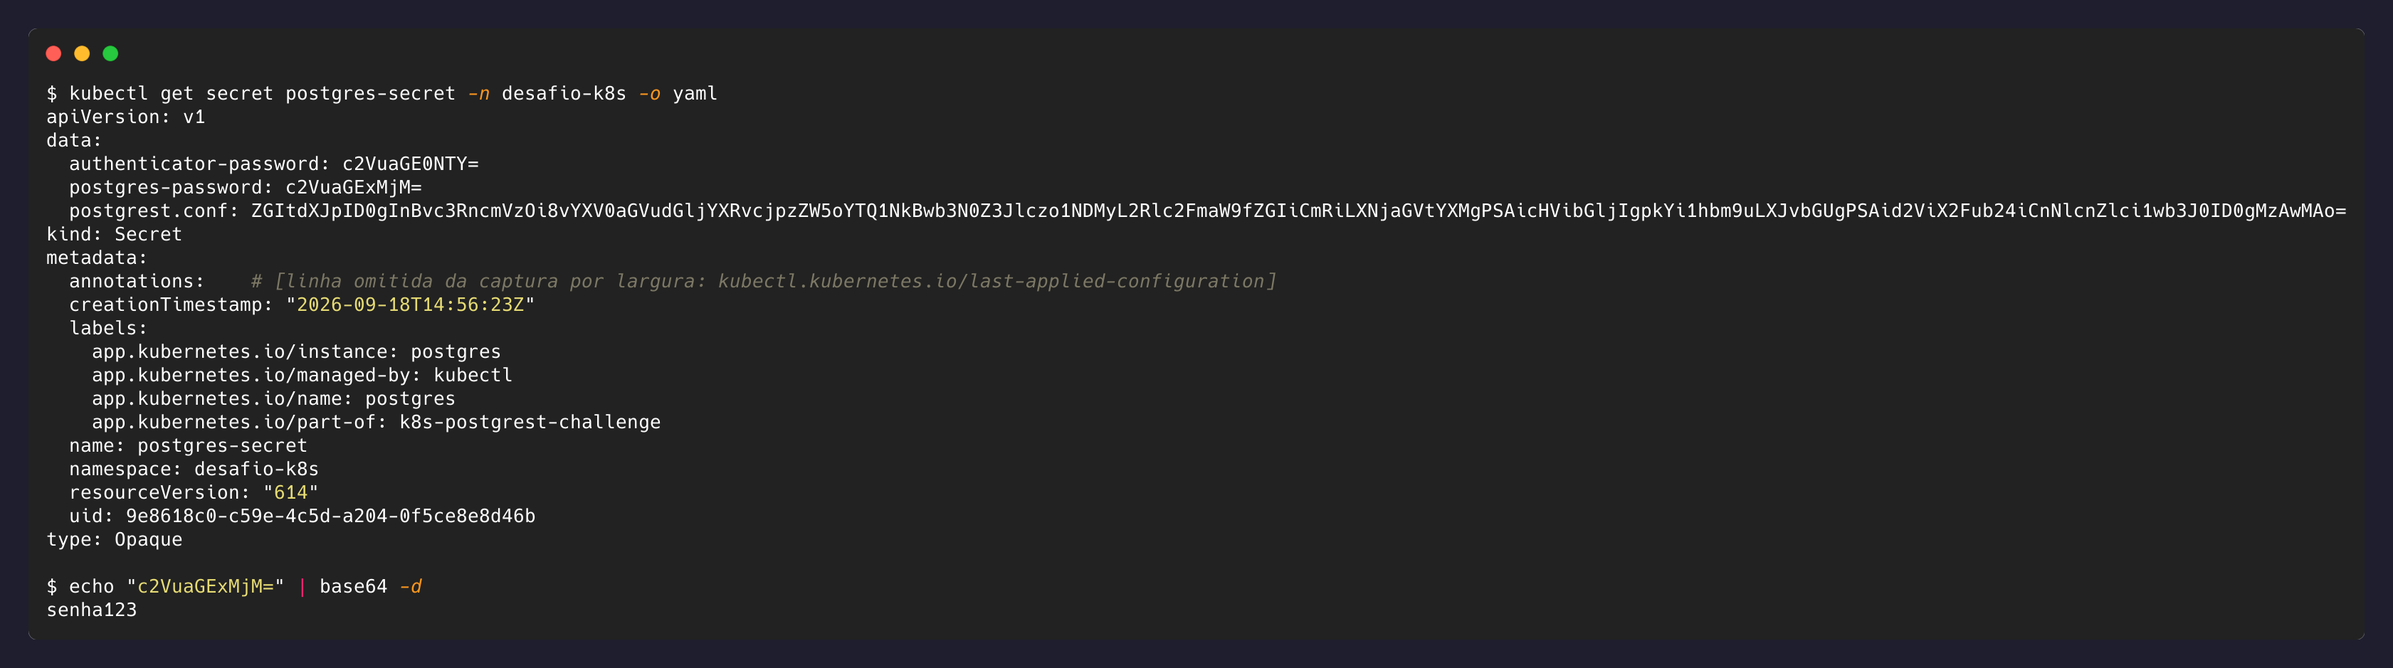
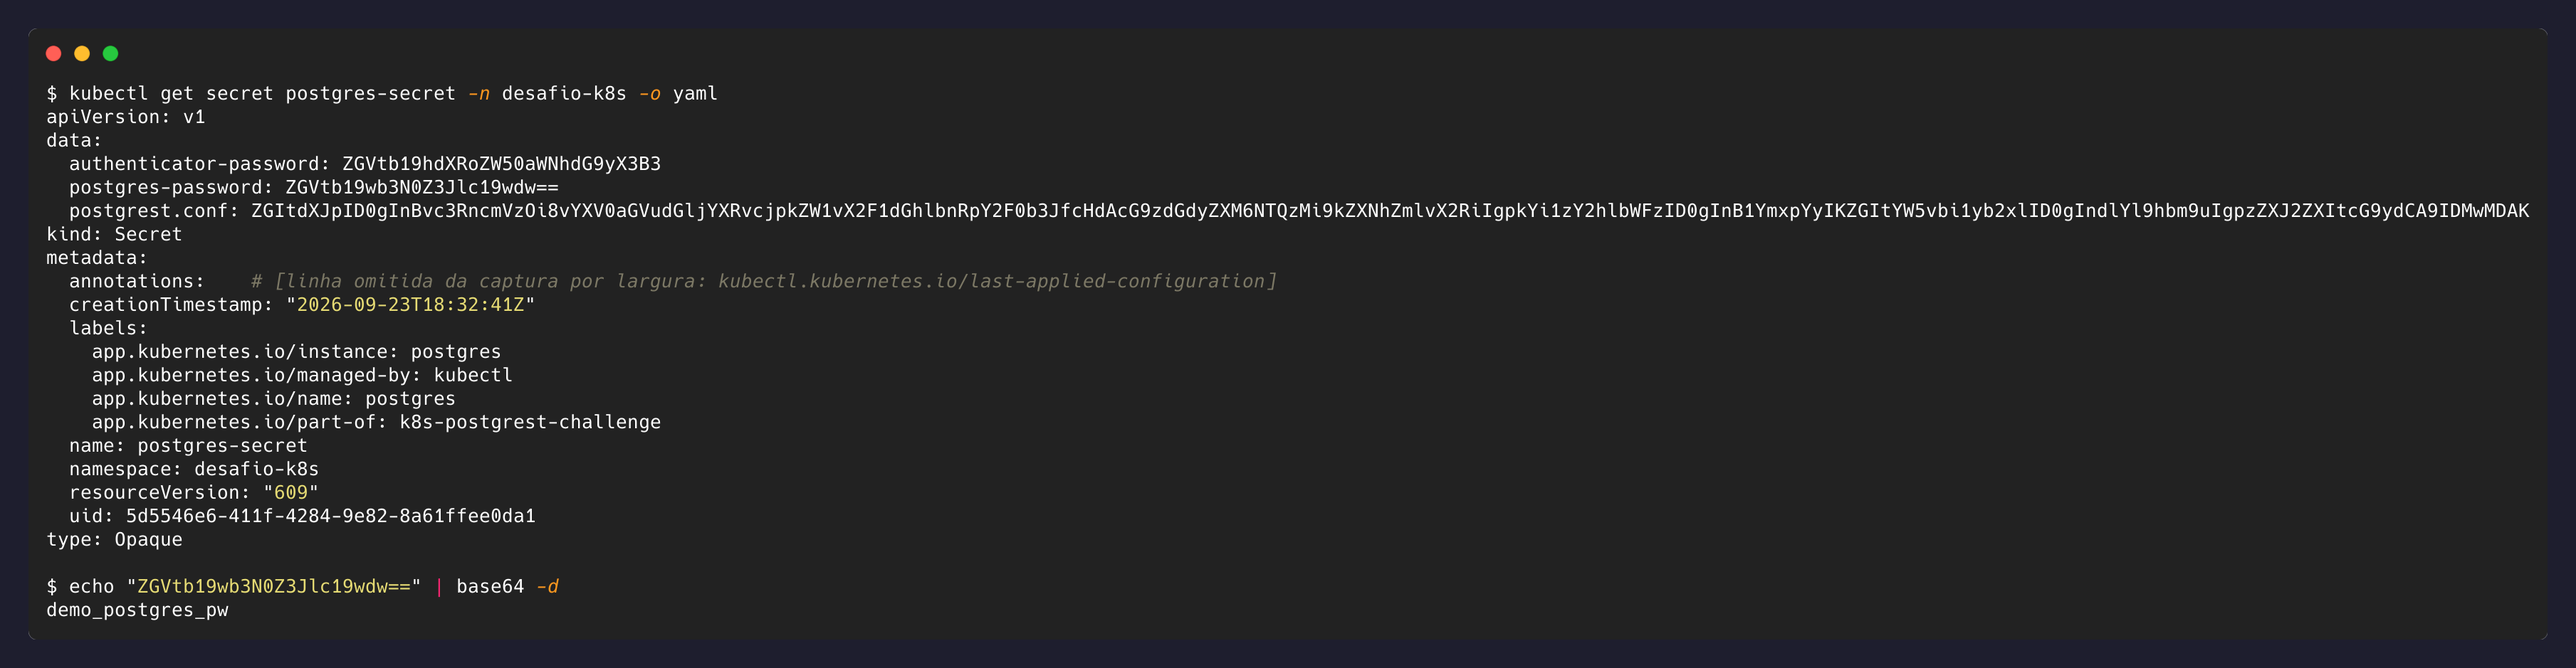
chore(k8s): renomeia Secret para .example e explicita credenciais de demo
O arquivo passa a se chamar 01-postgres-secret.example.yaml. A extensao .yaml
e mantida de proposito porque kubectl apply -f k8s/ so processa .yaml, .yml e
.json: com .yaml.example o clone novo e o job de CD quebrariam na aplicacao dos
manifests.

O nome do objeto (postgres-secret) nao muda, entao o arquivo continua
substituivel sem tocar nos secretKeyRef dos Deployments, que e o ponto de um
arquivo de exemplo.

Senhas trocadas para valores que se autodeclaram demo e evidencia do nivel 3
regerada a partir de cluster limpo.

diff --git a/docs/nivel-3-secret-configmap.md b/docs/nivel-3-secret-configmap.md
@@ -11,7 +11,7 @@ sensível: nome do banco, usuário, caminho do `PGDATA` e o script de inicializa
 
 ## Secret
 
-[`k8s/01-postgres-secret.yaml`](../k8s/01-postgres-secret.yaml) guarda três valores: a
+[`k8s/01-postgres-secret.example.yaml`](../k8s/01-postgres-secret.example.yaml) guarda três valores: a
 senha do usuário dono do banco, a senha do papel `authenticator` usado pela API, e o
 arquivo de configuração do PostgREST (que contém a string de conexão).
 
@@ -53,15 +53,16 @@ acesso por outros mecanismos:
 
 ## Credenciais neste repositório
 
-As credenciais versionadas aqui são de demonstração e existem para que
-`kubectl apply -f k8s/` funcione em qualquer clone sem passo manual, prática comum em
-repositórios de referência. Elas não dão acesso a nenhum recurso real: o banco é local,
-sem exposição externa, e o papel usado pela API tem privilégio mínimo
-([nível 4](nivel-4-postgrest-integracao.md)).
+O arquivo se chama `01-postgres-secret.example.yaml`: o sufixo sinaliza que os valores são de
+demonstração, e a extensão `.yaml` é mantida de propósito para que `kubectl apply -f k8s/`
+continue funcionando em qualquer clone sem passo manual. As credenciais não dão acesso a
+nenhum recurso real: o banco é local, sem exposição externa, e o papel usado pela API tem
+privilégio mínimo ([nível 4](nivel-4-postgrest-integracao.md)).
 
-Em um ambiente com dados reais, o valor não iria para o Git: o pipeline injetaria a
-credencial no momento do deploy, ou o cluster a buscaria de um gestor externo, mantendo
-no repositório apenas a referência.
+O nome do objeto (`postgres-secret`) é o que os Deployments referenciam, então o arquivo é
+substituível sem tocar em nenhum outro manifest. Em um ambiente com dados reais o valor não
+iria para o Git: o pipeline injetaria a credencial no momento do deploy, ou o cluster a
+buscaria de um gestor externo, mantendo no repositório apenas a referência.
 
 ## Evidência
 

diff --git a/k8s/README.md b/k8s/README.md
@@ -1,7 +1,7 @@
 # Manifests
 
 > **A numeração destes arquivos é ordem de aplicação, não ordem dos níveis do desafio.**
-> `01-postgres-secret.yaml` vem antes de `04-postgres-deployment.yaml` porque o Deployment
+> `01-postgres-secret.example.yaml` vem antes de `04-postgres-deployment.yaml` porque o Deployment
 > consome o Secret, não porque um seja de um nível anterior. A coluna "Documentação" na
 > tabela abaixo liga cada manifest ao documento correspondente.
 
@@ -12,7 +12,7 @@ de quem a consome, banco antes da API.
 | Arquivo | Nível | Recurso | Documentação |
 |---|---|---|---|
 | `00-namespace.yaml` | 1 | Namespace `desafio-k8s` | [Namespace](../docs/nivel-1-namespace-pod.md) |
-| `01-postgres-secret.yaml` | 3 | Secret: senhas e configuração do PostgREST | [Credenciais](../docs/nivel-3-secret-configmap.md) |
+| `01-postgres-secret.example.yaml` | 3 | Secret: senhas e configuração do PostgREST | [Credenciais](../docs/nivel-3-secret-configmap.md) |
 | `02-postgres-configmap.yaml` | 3 | ConfigMap: configuração e script de inicialização | [Credenciais](../docs/nivel-3-secret-configmap.md) |
 | `03-postgres-pvc.yaml` | 2 | PersistentVolumeClaim do banco | [Armazenamento](../docs/nivel-2-postgres-pvc.md) |
 | `04-postgres-deployment.yaml` | 2, 6 | Deployment do PostgreSQL (probes e limites no 6) | [Armazenamento](../docs/nivel-2-postgres-pvc.md) |

diff --git a/docs/nivel-4-postgrest-integracao.md b/docs/nivel-4-postgrest-integracao.md
@@ -29,7 +29,7 @@ esse modelo aplicado, sem passo manual.
 
 ## Conexão pelo Service, não por IP
 
-A string de conexão em [`k8s/01-postgres-secret.yaml`](../k8s/01-postgres-secret.yaml)
+A string de conexão em [`k8s/01-postgres-secret.example.yaml`](../k8s/01-postgres-secret.example.yaml)
 usa `postgres` como host, que é o nome do Service criado no
 [nível 2](nivel-2-postgres-pvc.md):
 
